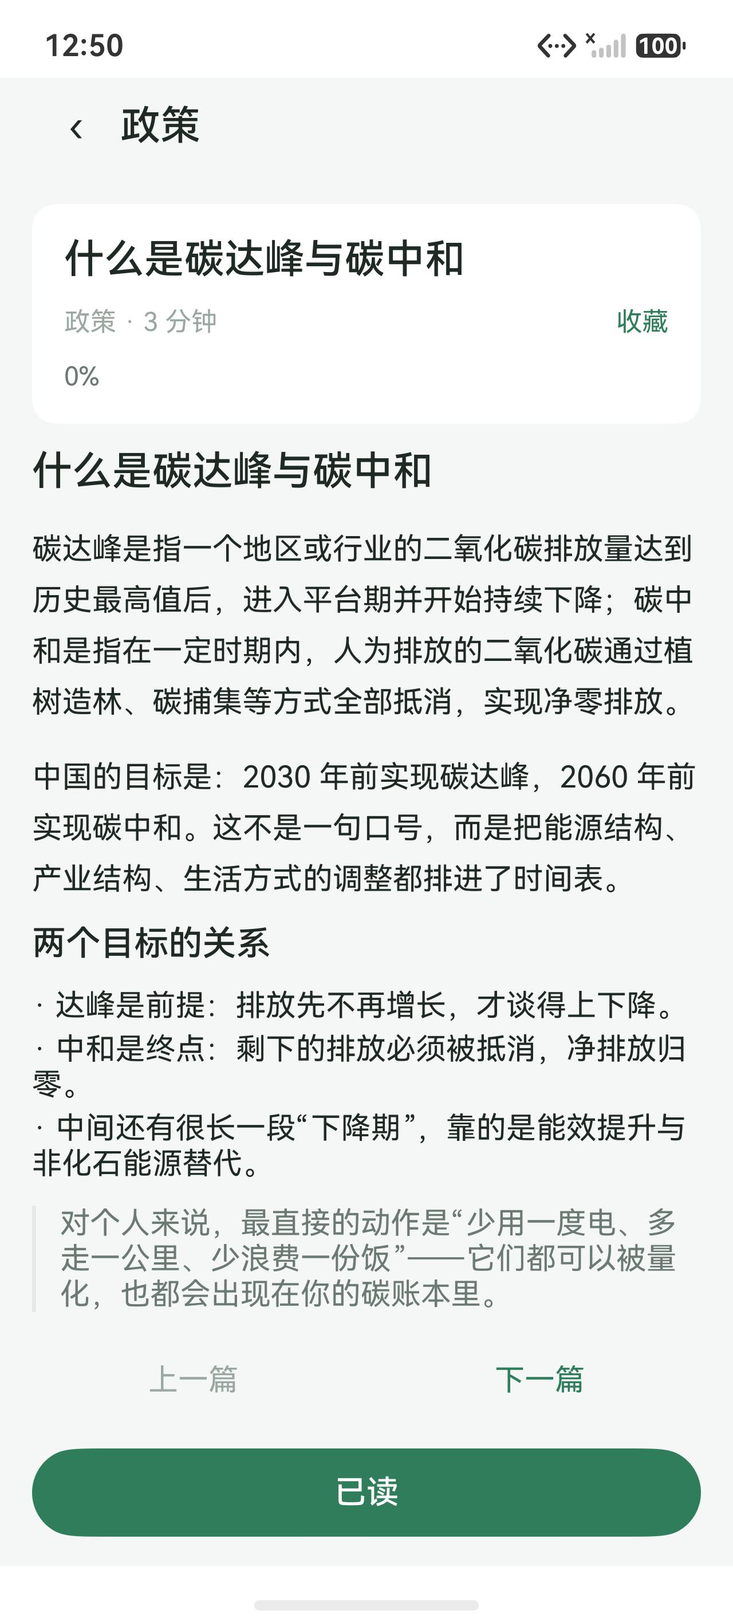
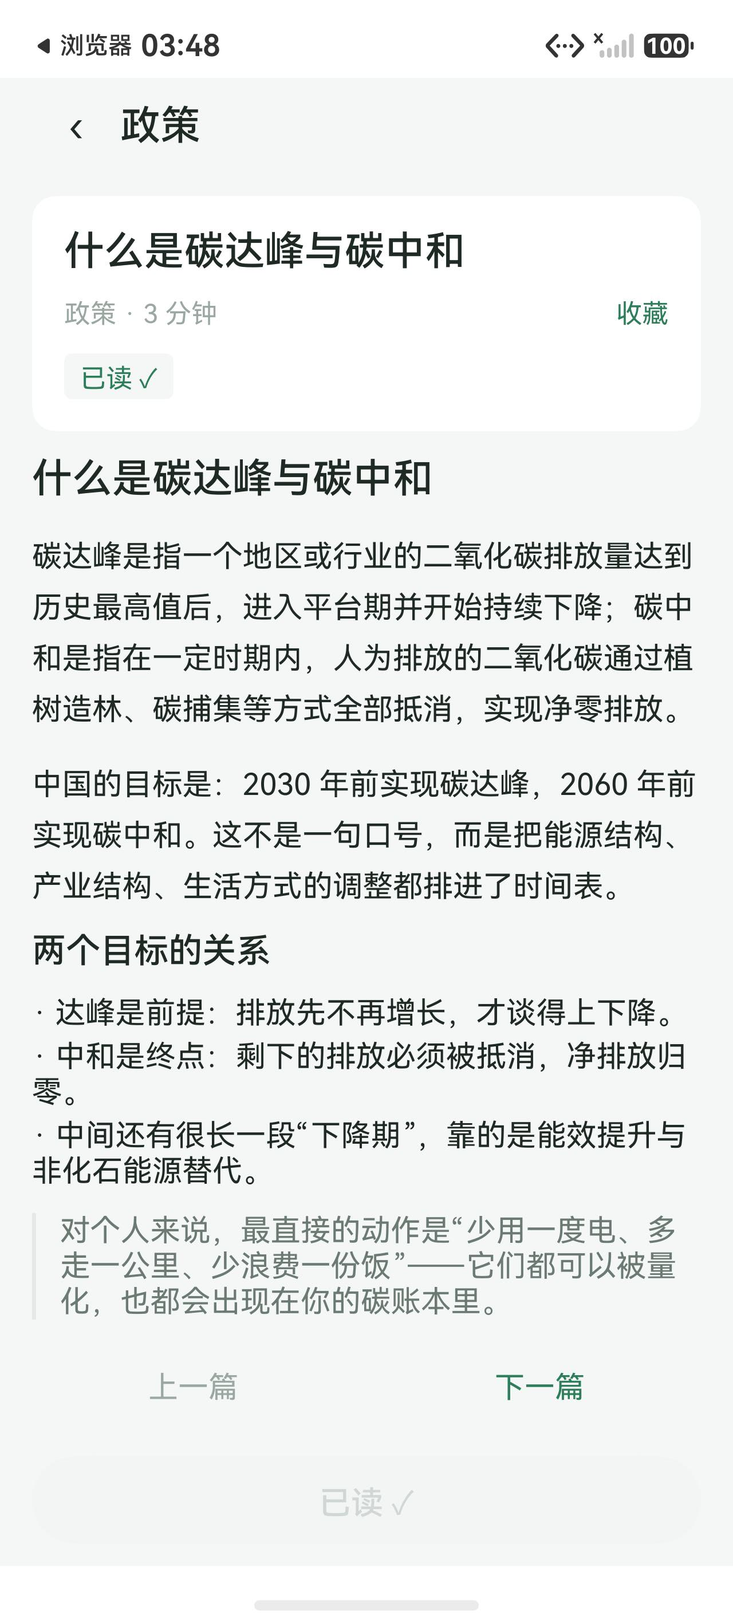
fix(ui): 修掉四个界面缺陷（徽章数不一致 / 头像框全一样 / 已读按钮无反应 / 0% 语义不清）
## 改了什么
1. 徽章数同源：RewardService.badgeRows() 把 BadgeEngine.evaluate() 本次达标的也视为已解锁（徽章是纯荣誉，
   真相由判定给出，user_badge 只负责留痕与同步）；MinePage 改调 badgeRows() 计数。
   同时修掉 ArkUI 陷阱：rowItem(...) 是带参 @Builder，参数按值传入会把 `${this.badgeUnlocked}/8 已解锁`
   钉在首帧（hilog 实测 reload() 已算出 5、界面仍显示 0）——新增 rowItemDynamic 用闭包现算。
2. 碳小铺 8 个头像框原先都硬写 🖼：新增 ShopRules.frameIcon()，按 frame_01..08 映射
   🌱嫩芽 / 🌿藤蔓 / 🎡风车 / 🌌星河 / 🌠极光 / 🎋墨竹 / ✨鎏金 / 🪵年轮，ShopItemCard 与 AppearancePage 改用它。
3. ScienceDetailPage 的「已读」按钮原先受 3 秒停留门槛限制（那是自动判定口径），刚打开就点会静默无反应：
   新增 explicitRead()（显式点击不受门槛限制），成功后写 science_progress 并提示；按钮按状态改文案并置灰。
4. 详情页头部原印「0%」（进度只在本页内部使用、不随滚动更新）：改为「未读 / 已读 ✓」状态标签，
   按钮文案「已读」→「标记为已读」。

## 文档
docs/CHANGELOG.md 新增 v4.15；APPENDIX-C §17 与 APPENDIX-D D4-4 补「显式点击不受 80%/3s 门槛限制」。

## 跑了什么
- hvigorw assembleHap: BUILD SUCCESSFUL（两台模拟器均已重装并实机验证四个入口）
- python tests/tools/check_l0.py --strict: L0 EXIT=0（扫 96 文件、命中 0、docConflicts 0）
- bash tests/tools/l1_offline/run_tests.sh: 49 条 PASS=49、CalcBaseline 323 断言一致

## 结果
四个问题在模拟器上逐条复验通过；重拍 05-mine / 07-badge / 08-shop / 12-appearance / 17-science-detail。
未改任何数值，tests/cases/carbon-calc.json 零改动。

diff --git a/docs/CHANGELOG.md b/docs/CHANGELOG.md
@@ -6,7 +6,9 @@
 
 | 版本 | 日期 | 主题 |
 |---|---|---|
-| **v4.14** | 2026-11-01 | **搜「水」搜不到「自来水」** —— `app/entry/src/main/ets/viewmodel/RecordService.ets` 的 `search()` 只有 `(note LIKE ? OR sub_type LIKE ?)`；而库里 `sub_type` 存的是英文键（`water`），中文名「自来水」只存在于 `rawfile/factors/carbon-factors.json`，因此按中文名搜索永远 0 条（用户实测反馈）。修法：新增私有 `subTypesMatching(keyword)` —— 遍历因子库把**中文名包含关键词**的 `subType` 收集起来，拼成 `OR sub_type IN (?,?,…)` 并进同一个 WHERE；参数按 `[userId, like, like, ...matched, (category), fromMs, toMs]` 顺序拼接，结果行与合计仍共用同一组 WHERE（保持「结果 N 条 / 减排合计」两个数同源）。实测搜「水」→ **15 条 / 0.266 kg**，全部为「自来水」。另：`uitest` 的键盘输入必须用 `uitest uiInput inputText <x> <y> <text>`（`inputText <text>` 需要坐标，只给文字会静默失败），这条已记进 `docs/toolchain/harmony-cli-build.md`。因截图变化重拍 `docs/screenshots/16-record-search.png`（关键词「水」+ 15 条）。**三份提交物本轮暂不重生成**（按约定等最终视频到位后统一出一次，避免每次小修都跑 3 分钟的视频合成）。**未改任何数值**，`tests/cases/carbon-calc.json` 零改动、`docConflicts` 仍 0 条；L0 PASS、L1 49/49、CalcBaseline 323 断言一致 || **v4.13** | 2026-11-01 | **看板「点柱下钻」只写在脚本里、代码里根本没实现** —— 录制脚本与 `docs/APPENDIX-E-demo-script.md:146` 都写「点一根柱子直接下钻到那一天」，但 `app/entry/src/main/ets/components/ChartCanvas.ets` 当时只有 `Canvas.onReady` 绘制、**没有任何触摸处理**，点上去毫无反应（用户实测反馈）。补实现：① `ChartCanvas` 增加 `onPointTap: ((index: number) => void) | undefined` 与 `.onClick`，`handleTap(x)` 按与 `drawLine` / `drawBars` 完全一致的几何把点击 x 换算成数据点下标（折线 `round((x-4)/step)`、柱状 `floor(x/slot)`，越界夹紧）；② `viewmodel/RouteName.ets` 的 `RouteParam` 新增 `fromMs` / `toMs` 与 `static range()`；③ `pages/DashboardPage.ets` 新增 `drillToBucket`（点折线 → 把该桶的 `startMs`/`endMs` 带进记录搜索）与 `drillToCategory`（点分类柱 → 带 `category`），均走 `NavParams.push(RouteName.RECORD_SEARCH)`；④ `pages/RecordSearchPage.ets` 的 `aboutToAppear` 读取区间参数（有区间就只查那一天，否则维持默认最近 30 天）。**顺带修掉一处同源不一致**：搜索结果行原本直接打印 `record.subType`，同一笔记录在记录列表里叫「自来水」、在搜索结果里叫 `water`；新增 `nameOf()`（与记录列表同口径取因子库 `name`，带 `Map` 缓存），并把活动量改用 `Formatter.amount()`（此前 `record.amount` 直出会显示 `8` 而不是 `8 km` 之外的精度问题）。实测：日粒度点折线峰值 → 「11-01 – 11-01 / 结果 2 条 / 1.55 kg」；点「出行」柱 → 「出行 / 10-02 – 11-01 / 结果 25 条 / 8.60 kg」，行首显示「自来水」「自行车」「步行」「拼车（人均）」「公交车」「地铁」。录制脚本第 82 行与旁白同步改为「跳到记录搜索页，日期区间已锁到那一天」。因搜索行文案变化，重拍 `docs/screenshots/16-record-search.png` 与 `docs/screenshots/13-settings.png`（后者顺带把误触关掉的「每日记录提醒」恢复为开）。**未改任何数值**，`tests/cases/carbon-calc.json` 零改动、`docConflicts` 仍 0 条 || **v4.12** | 2026-11-01 | **看板切「日/周/月/年」图不变** —— `app/entry/src/main/ets/components/ChartCanvas.ets` 只在 `Canvas.onReady()` 里画一次；`onReady` 只在**首次布局**触发，之后父组件把新的 `buckets` / `slices` 传进来、`build()` 会重跑但不会再次 `onReady` ⇒ 数据换了、画布还是老图（区间说明会变，图不变，正是用户看到的现象）。修法：`kind` / `buckets` / `slices` / `chartHeight` 四个 `@Prop` 全加 `@Watch('onDataChange')`，新增 `private ready: boolean`，`onReady` 里置 `true` 再画一次，`onDataChange()` 里判 `ready` 后重画（画布未就绪时跳过，避免用 0 宽高绘制）。实测四档：日（今天 00:00–24:00 按小时，2 个尖峰）/ 周（周一–周日 7 点）/ 月（10-03–11-01 30 点）/ 年（12 月–11 月 12 点）四张图与饼图比例均随档位变化。因 `02-dashboard.png` 重拍，三份提交物同步重生成。**未改任何数值**，`tests/cases/carbon-calc.json` 零改动、`docConflicts` 仍 0 条 || **v4.11** | 2026-11-01 | **点「累计减排」白屏（Tab 页面被当二级页压栈）** —— 首页与「我的」页的「累计减排」卡片、首页「今日记录」卡片的点击都是 `push(RouteName.DASHBOARD)` / `push(RouteName.RECORD)`，但看板与记录是 **Tab 页面**，`app/entry/src/main/ets/pages/Index.ets` 的 `pageMap` 只登记了 13 个二级页、**没有这两个名字** ⇒ `NavDestination` 匹配不到任何分支 ⇒ 整屏白屏（模拟器实测：点下去页面变空白，只剩系统状态栏）。Tab 页面只能切、不能压栈。改法：`Index.ets` 新增 `private switchTab(index: number)` 并把 `goTab: (index: number) => void` 注入 `HomePage` 与 `MinePage`；`HomePage.ets:168/194` 的 `push(RouteName.DASHBOARD)` → `this.goTab(1)`、`:180` 的 `push(RouteName.RECORD)` → `this.goTab(2)`、`MinePage.ets` 的 `push(RouteName.DASHBOARD)` → `this.goTab(1)`。两台模拟器实测三个入口均正确切到目标 Tab（底部高亮同步）。**未改任何数值**，`tests/cases/carbon-calc.json` 零改动、`docConflicts` 仍 0 条；截图内容不变（看板/记录页外观未改），故未重拍 || **v4.10** | 2026-11-01 | **识图的隐私声明与实现对齐（只改文案，不改行为）** —— 「关于与合规」页原写「识图所选图片只在内存中读取一次像素用于推断」，但本期引擎是 `MockAiEngine`（`app/entry/src/main/ets/viewmodel/AiAssistService.ets:46`），它**只用 uri 字符串做哈希挑候选、完全不读像素**，全仓也无任何 `CoreVisionKit` / `objectDetection` / `image.ImageSource` 调用。该句属对外声明性质，与实现不符。改为「识图所选图片**不会被本应用读取或分析内容**（当前为模拟识别，不含图像模型），也不落盘、不上传」——后半句（不落盘、不上传）本就成立（`HttpPort` 未注入该层）。同步订正 `scripts/build_submission_docx.py` 的两处同类表述（§6 隐私表、§3.7 用户路径删掉「置信提示」，与「不展示置信度」一致），并把 docx §8.1 的 L1 计数从 48 改为 49。重打 HAP、重签、两台模拟器重装、重抓 `docs/screenshots/18-about.png`、重生成 docx 与 rar。**未改任何数值**，`tests/cases/carbon-calc.json` 零改动、`docConflicts` 仍 0 条 |
+| **v4.15** | 2026-11-01 | **四个界面缺陷（用户逐条实测反馈）** —— ① **「我的」页徽章数与徽章墙不一致（我的 0/8、徽章墙 5/8）**：`badgeRows()` 只认 `user_badge.unlocked = 1` 的行，而落库发生在结算链路的 `unlockBadges()`，重播演示数据会先 `clear()` 清表 ⇒ 库里 0 行已解锁时两处各说各话。改为**口径归一**：`app/entry/src/main/ets/viewmodel/RewardService.ets` 的 `badgeRows()` 把 `BadgeEngine.evaluate()` 本次达标的也视为已解锁（徽章是纯荣誉、不参与结算，真相由判定给出，`user_badge` 只负责留痕与同步）；`pages/MinePage.ets` 不再读 `stats.badgeUnlocked`，改调 `badgeRows()` 计数。**同时修掉一个 ArkUI 陷阱**：`rowItem(...)` 是带参数的 `@Builder`，参数按值传入，`${this.badgeUnlocked}/8 已解锁` 这个字符串被钉在首帧（hilog 实测 `reload()` 已算出 5，界面仍显示 0）——新增 `rowItemDynamic(..., valueOf: () => string, ...)`，渲染时调闭包现算。② **碳小铺 8 个头像框长得一模一样**：`components/ShopItemCard.ets:27` 与 `pages/AppearancePage.ets:101` 都硬写 `🖼`，而 `resources/base/media/` 里只有 `app_icon.png`（没有任何 `frame_*` 图片资源）。新增 `viewmodel/domain/ShopRules.ets` 的 `frameIcon(frameId)`，按 `frame_01…08` 映射 🌱嫩芽 / 🌿藤蔓 / 🎡风车 / 🌌星河 / 🌠极光 / 🎋墨竹 / ✨鎏金 / 🪵年轮，两处渲染改用它。③ **科普详情页「已读」按钮点了没反应**：`pages/ScienceDetailPage.ets` 的 `markRead()` 有「停留 ≥3 秒」门槛（那是**自动判定**的口径，附录 D4-4），用户刚打开就点按钮时 `dwell < 3000` ⇒ 静默什么都不做。新增 `explicitRead()`：显式点击**不受门槛限制**（点按钮本身就是「我读完了」的意思表示），成功写 `science_progress` 并弹「已标记为已读」；按钮按状态改文案（`标记为已读` → `已读 ✓` 并置灰禁用，新增 `science_read_done` 字符串键）。④ **「0%」看不懂也不会动**：详情页头部原先把 `ScienceService.percentText(progress)` 直接印成 `0%`，而进度只在本页内部使用、不随滚动更新，用户不知道它是什么。改为**状态标签**：未读显示「未读」、已读显示「已读 ✓」（新增 `science_unread_tag`）；`science_mark_read` 的文案由「已读」改为「标记为已读」，避免按钮像是状态而非动作。文档同步：`docs/APPENDIX-C-ui-screens.md` §17 与 `docs/APPENDIX-D-acceptance.md` D4-4 补「显式点击按钮可立即标记，不受 80%/3s 门槛限制；门槛只用于滚到底的自动标记」。重拍 `docs/screenshots/05-mine.png`、`07-badge.png`、`08-shop.png`、`17-science-detail.png`（后者为点完「标记为已读」后的已读态）。**未改任何数值**，`tests/cases/carbon-calc.json` 零改动、`docConflicts` 仍 0 条；三份提交物本轮不重生成（按约定等最终视频到位统一出一次） |
+| **v4.14** | 2026-11-01 | **搜「水」搜不到「自来水」** —— `app/entry/src/main/ets/viewmodel/RecordService.ets` 的 `search()` 只有 `(note LIKE ? OR sub_type LIKE ?)`；而库里 `sub_type` 存的是英文键（`water`），中文名「自来水」只存在于 `rawfile/factors/carbon-factors.json`，因此按中文名搜索永远 0 条（用户实测反馈）。修法：新增私有 `subTypesMatching(keyword)` —— 遍历因子库把**中文名包含关键词**的 `subType` 收集起来，拼成 `OR sub_type IN (?,?,…)` 并进同一个 WHERE；参数按 `[userId, like, like, ...matched, (category), fromMs, toMs]` 顺序拼接，结果行与合计仍共用同一组 WHERE（保持「结果 N 条 / 减排合计」两个数同源）。实测搜「水」→ **15 条 / 0.266 kg**，全部为「自来水」。另：`uitest` 的键盘输入必须用 `uitest uiInput inputText <x> <y> <text>`（`inputText <text>` 需要坐标，只给文字会静默失败），这条已记进 `docs/toolchain/harmony-cli-build.md`。因截图变化重拍 `docs/screenshots/16-record-search.png`（关键词「水」+ 15 条）。**三份提交物本轮暂不重生成**（按约定等最终视频到位后统一出一次，避免每次小修都跑 3 分钟的视频合成）。**未改任何数值**，`tests/cases/carbon-calc.json` 零改动、`docConflicts` 仍 0 条；L0 PASS、L1 49/49、CalcBaseline 323 断言一致 |
+| **v4.13** | 2026-11-01 | **看板「点柱下钻」只写在脚本里、代码里根本没实现** —— 录制脚本与 `docs/APPENDIX-E-demo-script.md:146` 都写「点一根柱子直接下钻到那一天」，但 `app/entry/src/main/ets/components/ChartCanvas.ets` 当时只有 `Canvas.onReady` 绘制、**没有任何触摸处理**，点上去毫无反应（用户实测反馈）。补实现：① `ChartCanvas` 增加 `onPointTap: ((index: number) => void) | undefined` 与 `.onClick`，`handleTap(x)` 按与 `drawLine` / `drawBars` 完全一致的几何把点击 x 换算成数据点下标（折线 `round((x-4)/step)`、柱状 `floor(x/slot)`，越界夹紧）；② `viewmodel/RouteName.ets` 的 `RouteParam` 新增 `fromMs` / `toMs` 与 `static range()`；③ `pages/DashboardPage.ets` 新增 `drillToBucket`（点折线 → 把该桶的 `startMs`/`endMs` 带进记录搜索）与 `drillToCategory`（点分类柱 → 带 `category`），均走 `NavParams.push(RouteName.RECORD_SEARCH)`；④ `pages/RecordSearchPage.ets` 的 `aboutToAppear` 读取区间参数（有区间就只查那一天，否则维持默认最近 30 天）。**顺带修掉一处同源不一致**：搜索结果行原本直接打印 `record.subType`，同一笔记录在记录列表里叫「自来水」、在搜索结果里叫 `water`；新增 `nameOf()`（与记录列表同口径取因子库 `name`，带 `Map` 缓存），并把活动量改用 `Formatter.amount()`（此前 `record.amount` 直出会显示 `8` 而不是 `8 km` 之外的精度问题）。实测：日粒度点折线峰值 → 「11-01 – 11-01 / 结果 2 条 / 1.55 kg」；点「出行」柱 → 「出行 / 10-02 – 11-01 / 结果 25 条 / 8.60 kg」，行首显示「自来水」「自行车」「步行」「拼车（人均）」「公交车」「地铁」。录制脚本第 82 行与旁白同步改为「跳到记录搜索页，日期区间已锁到那一天」。因搜索行文案变化，重拍 `docs/screenshots/16-record-search.png` 与 `docs/screenshots/13-settings.png`（后者顺带把误触关掉的「每日记录提醒」恢复为开）。**未改任何数值**，`tests/cases/carbon-calc.json` 零改动、`docConflicts` 仍 0 条 || **v4.12** | 2026-11-01 | **看板切「日/周/月/年」图不变** —— `app/entry/src/main/ets/components/ChartCanvas.ets` 只在 `Canvas.onReady()` 里画一次；`onReady` 只在**首次布局**触发，之后父组件把新的 `buckets` / `slices` 传进来、`build()` 会重跑但不会再次 `onReady` ⇒ 数据换了、画布还是老图（区间说明会变，图不变，正是用户看到的现象）。修法：`kind` / `buckets` / `slices` / `chartHeight` 四个 `@Prop` 全加 `@Watch('onDataChange')`，新增 `private ready: boolean`，`onReady` 里置 `true` 再画一次，`onDataChange()` 里判 `ready` 后重画（画布未就绪时跳过，避免用 0 宽高绘制）。实测四档：日（今天 00:00–24:00 按小时，2 个尖峰）/ 周（周一–周日 7 点）/ 月（10-03–11-01 30 点）/ 年（12 月–11 月 12 点）四张图与饼图比例均随档位变化。因 `02-dashboard.png` 重拍，三份提交物同步重生成。**未改任何数值**，`tests/cases/carbon-calc.json` 零改动、`docConflicts` 仍 0 条 || **v4.11** | 2026-11-01 | **点「累计减排」白屏（Tab 页面被当二级页压栈）** —— 首页与「我的」页的「累计减排」卡片、首页「今日记录」卡片的点击都是 `push(RouteName.DASHBOARD)` / `push(RouteName.RECORD)`，但看板与记录是 **Tab 页面**，`app/entry/src/main/ets/pages/Index.ets` 的 `pageMap` 只登记了 13 个二级页、**没有这两个名字** ⇒ `NavDestination` 匹配不到任何分支 ⇒ 整屏白屏（模拟器实测：点下去页面变空白，只剩系统状态栏）。Tab 页面只能切、不能压栈。改法：`Index.ets` 新增 `private switchTab(index: number)` 并把 `goTab: (index: number) => void` 注入 `HomePage` 与 `MinePage`；`HomePage.ets:168/194` 的 `push(RouteName.DASHBOARD)` → `this.goTab(1)`、`:180` 的 `push(RouteName.RECORD)` → `this.goTab(2)`、`MinePage.ets` 的 `push(RouteName.DASHBOARD)` → `this.goTab(1)`。两台模拟器实测三个入口均正确切到目标 Tab（底部高亮同步）。**未改任何数值**，`tests/cases/carbon-calc.json` 零改动、`docConflicts` 仍 0 条；截图内容不变（看板/记录页外观未改），故未重拍 || **v4.10** | 2026-11-01 | **识图的隐私声明与实现对齐（只改文案，不改行为）** —— 「关于与合规」页原写「识图所选图片只在内存中读取一次像素用于推断」，但本期引擎是 `MockAiEngine`（`app/entry/src/main/ets/viewmodel/AiAssistService.ets:46`），它**只用 uri 字符串做哈希挑候选、完全不读像素**，全仓也无任何 `CoreVisionKit` / `objectDetection` / `image.ImageSource` 调用。该句属对外声明性质，与实现不符。改为「识图所选图片**不会被本应用读取或分析内容**（当前为模拟识别，不含图像模型），也不落盘、不上传」——后半句（不落盘、不上传）本就成立（`HttpPort` 未注入该层）。同步订正 `scripts/build_submission_docx.py` 的两处同类表述（§6 隐私表、§3.7 用户路径删掉「置信提示」，与「不展示置信度」一致），并把 docx §8.1 的 L1 计数从 48 改为 49。重打 HAP、重签、两台模拟器重装、重抓 `docs/screenshots/18-about.png`、重生成 docx 与 rar。**未改任何数值**，`tests/cases/carbon-calc.json` 零改动、`docConflicts` 仍 0 条 |
 | **v4.9** | 2026-11-01 | **设备侧 hypium 首次在设备上执行：49 条 11 通过、38 条被 `aa test` 环境挡住（如实登记，不改任何数值）** —— 为跑通设备侧测试修掉两个真问题：① **测试执行器路径错误**：`OpenHarmonyTestRunner` 原在 `app/entry/src/ohosTest/ets/testability/`，而 `aa test` 按固定路径 `/ets/testrunner/OpenHarmonyTestRunner` 加载，导致 `TestFinished-ResultCode: -1 / App died` + `Cannot find module '…/entry_test/ets/testrunner/OpenHarmonyTestRunner'`；已迁到 `app/entry/src/ohosTest/ets/testrunner/` 并同步 `app/entry/src/ohosTest/module.json5` 的 `testRunner.srcPath`。② `app/entry/src/ohosTest/ets/test/BadgeIdempotent.test.ets:55` 的 ArkTS 类型错误（`Type 'number \| undefined' is not assignable to type 'number'`，ArkTS 不对「数组下标再取属性」做窄化）改为先取局部变量再判空。**新增探针** `app/entry/src/ohosTest/ets/test/Probe.test.ets`（登记进 `List.test.ets`），在设备上定事实：`getCurrentTopAbility failed=true` + `appContext open ok=false msg=Error: Parameter error.Illegal context.`，即 `aa test` 进程**既拿不到可用的 `Context` 开 `relationalStore`，也读不到 `rawfile`**（`CalcSamples` 报 `GetRawFileContent failed`）。故设备侧 11 条纯逻辑通过、38 条依赖真库/真资源的用例由 **L1 离线执行器**（`node:sqlite` 垫片）覆盖（该执行器本轮 49/49 通过、复算 323 个断言点一致），两者互补不互相顶替；结论与边界追加在 `docs/VERIFICATION.md §R19`。**未改任何数值**，`tests/cases/carbon-calc.json` 零改动、`docConflicts` 仍 0 条 |
 | **v4.8** | 2026-11-01 | **近场协同在双模拟器上实测：修掉「运行时权限从未申请」的真 bug** —— `ohos.permission.DISTRIBUTED_DATASYNC` 是 **user_grant** 权限，只在 `app/entry/src/main/module.json5` 声明不够；未在运行时申请时 `distributedDeviceManager.getAvailableDeviceListSync()` 直接抛 `Permission verification failed ... {"code":"201"}`，而适配器把异常吞掉 → `available()` 恒 `false` → 设备协同页永远显示「未组网」，**任何真机/模拟器都跑不起近场**。修法：① `app/entry/src/main/ets/viewmodel/distributed/DistributedPort.ets` 的接口新增 `ensurePermission(): Promise<boolean>`（`NullDistributedPort` 返回 `false`）；② `distributed/DistributedKitAdapter.ets` 用 `abilityAccessCtrl.requestPermissionsFromUser` 申请并缓存结果（`Permissions` 类型 + 回调重载包 Promise，避开 `void & Promise<T>` 交叉类型），三处 catch 全部补 `hilog` 诊断（`detailOf()` 带 `code`）；③ `viewmodel/DistributedService.ets` 的 `view()` / `exchange()` 在 `available()` 之前先 `await port.ensurePermission()`；④ `app/entry/src/ohosTest/ets/test/NearbyMerge.test.ets` 的假端口补 `ensurePermission()`（等价「用户拒绝」分支）。配套：`scripts/sign-hap.ps1` 新增 `-Debug` 开关，用 `UnsgnedDebugProfileTemplate.json` + `OpenHarmonyProfileDebug.pem` 出 **debug 类型 HAP** 并把 hdc 上**所有**已连接设备的 udid 写进 `debug-info`（只有 debug HAP 的 token 才允许 `atm perm -g/-r` 免界面改权限，也是后续真机跑 hypium 的前提）。**实测结论（如实记录）**：两台模拟器上 `near permission: granted=true results=[0]`、`near available: peer count=0` —— 权限与能力判定已通，但因两台模拟器无华为账号、未建立可信设备关系，`getAvailableDeviceListSync()` 仍返回空，故「发现对端 → KV 同步 → 家庭合并」一段仍未跑通。**未改任何数值**，`tests/cases/carbon-calc.json` 零改动、`docConflicts` 仍 0 条 |
 | **v4.7** | 2026-11-01 | **数字展示口径纠偏（四位小数一律收敛）+ 首页今日记录的折行**：`Formatter.number()` 原先对减排量与活动量一律 `toFixed(4)`，导致记录页出现 `80.0000 L`、`1.5000 km`、`减排 0.2880`、目标进度 `1.0000/1.0000 条`、徽章 `90.0000/7.0000` 这类读数。改为：**减排量展示 2 位、绝对值 < 1 kg 时 3 位**（与 `docs/PLAN.md:432` / `APPENDIX-A §4` 早已写下的口径一致，此前是代码与文档分叉）；新增 `amount`（活动量，至多 2 位并裁掉末尾 0，条/次/天 显示整数）与 `progress`（目标/徽章进度同口径）两种 `NumberKind`；因子值改为**至多 6 位并裁掉末尾 0**（水 0.000168 不能被 4 位抹成 0.0002）。同步把 6 处误用 `'factor'` 的调用点改正（`components/RecordItem.ets`、`components/GoalItem.ets`、`pages/RecordDetailPage.ets`、`pages/HomePage.ets`、`util/CardRenderer.ets`、`components/BadgeItem.ets`）。另：`components/StatCard.ets` 新增 `valueSize`，首页「今日记录」用 16 号字，修掉 `+150 分` 被挤成两行。文档侧更新 `docs/APPENDIX-C-ui-screens.md §3.4` 数字格式表与 §9 的「固定 4 位」表述。**未改任何数值**（存储仍 4 位、积分仍按 4 位后的值计算），`tests/cases/carbon-calc.json` 零改动、`docConflicts` 仍 0 条；17 张截图与三件套按新口径重生成 |

diff --git a/docs/APPENDIX-D-acceptance.md b/docs/APPENDIX-D-acceptance.md
@@ -113,7 +113,7 @@
 | D4-1 | 12 篇内容齐全 | 科普页逐个打开 | 12 篇全部可打开，无空白、无占位符 |
 | D4-2 | 分类筛选 | 切 政策 / 技巧 / 知识 | 每篇归类正确 |
 | D4-3 | **离线可读** | 飞行模式下打开全部科普 | 全部可读（内容来自 `rawfile/science/sci-01..12.md`） |
-| D4-4 | 阅读进度 | 打开详情、滚动到 80% 并停留 3 秒后返回 → 重启 | 该篇显示"已读"，重启后仍保留（`science_progress`） |
+| D4-4 | 阅读进度 | ①打开详情、滚动到 80% 并停留 3 秒后返回 → 重启；②打开另一篇，直接点页脚「标记为已读」 | 两条路径都让该篇显示"已读"，重启后仍保留（`science_progress`）。**显式点击不受 80%/3s 门槛限制**，门槛只用于滚到底的自动标记 |
 | D4-5 | 收藏 | 点星标 → 回科普页看「我的收藏」分组 | 收藏数 +1，该篇出现在「我的收藏」分组且置顶 |
 | D4-6 | Markdown 渲染 | 检查含标题/列表/引用/加粗的文章 | 四种语法渲染正确，无误显 `#`、无乱码 |
 | D4-7 | 搜索 | 搜文章关键字 | 命中正文与标题，无结果时空态 |

diff --git a/docs/APPENDIX-C-ui-screens.md b/docs/APPENDIX-C-ui-screens.md
@@ -568,7 +568,8 @@ MINE ─┬─ APPEARANCE / POINT_LOG / GOAL / BADGE / SHOP
 
 **规则**
 - Markdown 由 `MarkdownRenderer` 渲染，**只用内置 `rawfile` 内容，不联网**。
-- 滚动 **≥80% 且停留 ≥3 秒**后标记已读，写 `science_progress.progress = 1`（判定口径与附录 D4-4 一致）。
+- 头部元信息行下方显示**阅读状态标签**：未读「未读」/ 已读「已读 ✓」（不再显示裸百分比——那个数字既不随滚动更新，也没有说明）。
+- **两条标记路径**：①**显式点击**页脚按钮（文案「标记为已读」，成功后变「已读 ✓」并置灰禁用）→ 立即标记，**不受门槛限制**；②**自动判定**：滚动 **≥80% 且停留 ≥3 秒**后标记。两条都写 `science_progress.progress = 1`（口径与附录 D4-4 一致）。
 - 收藏写 `science_progress.is_favorite`，同步到其他设备。
 
 ---
